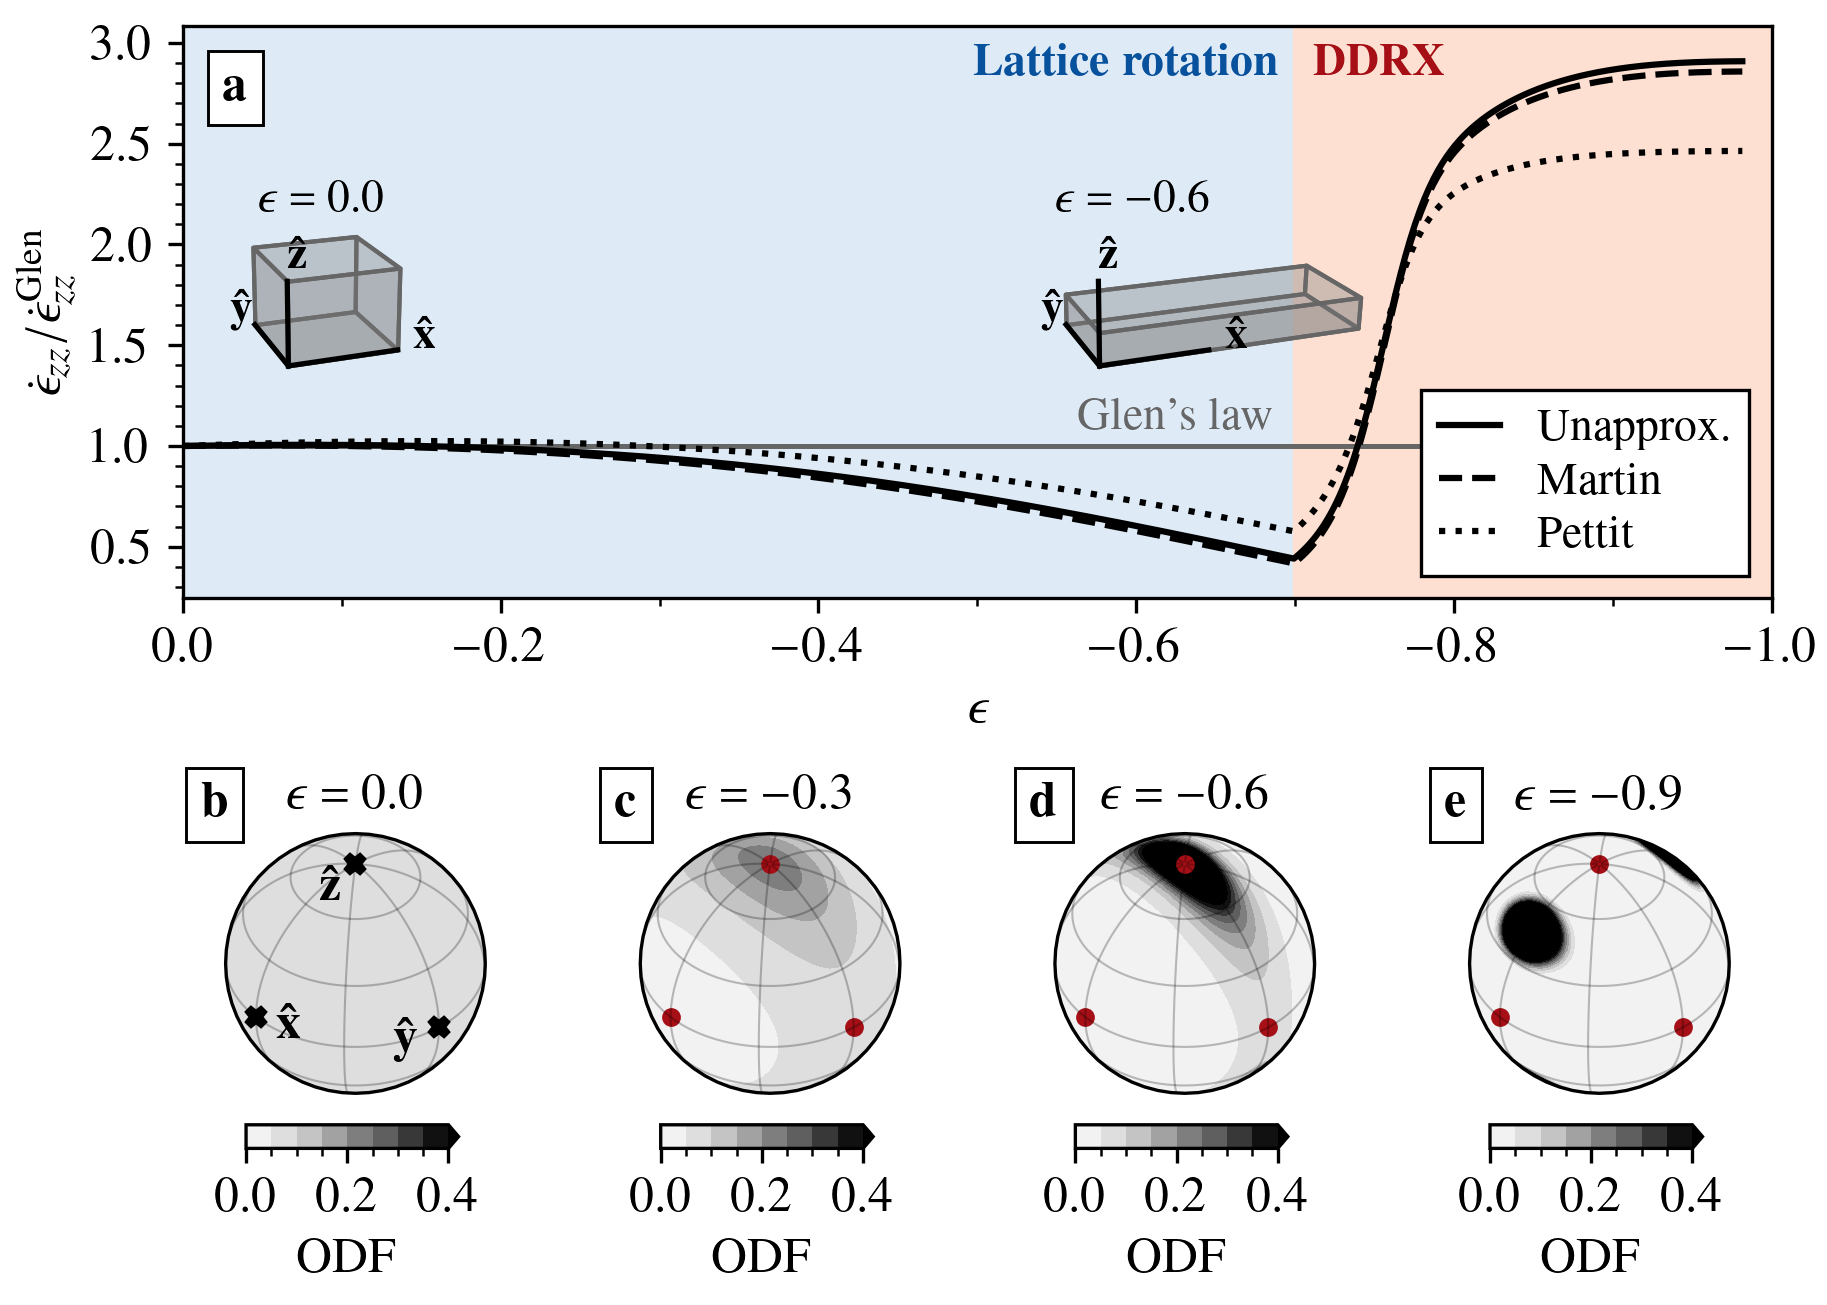
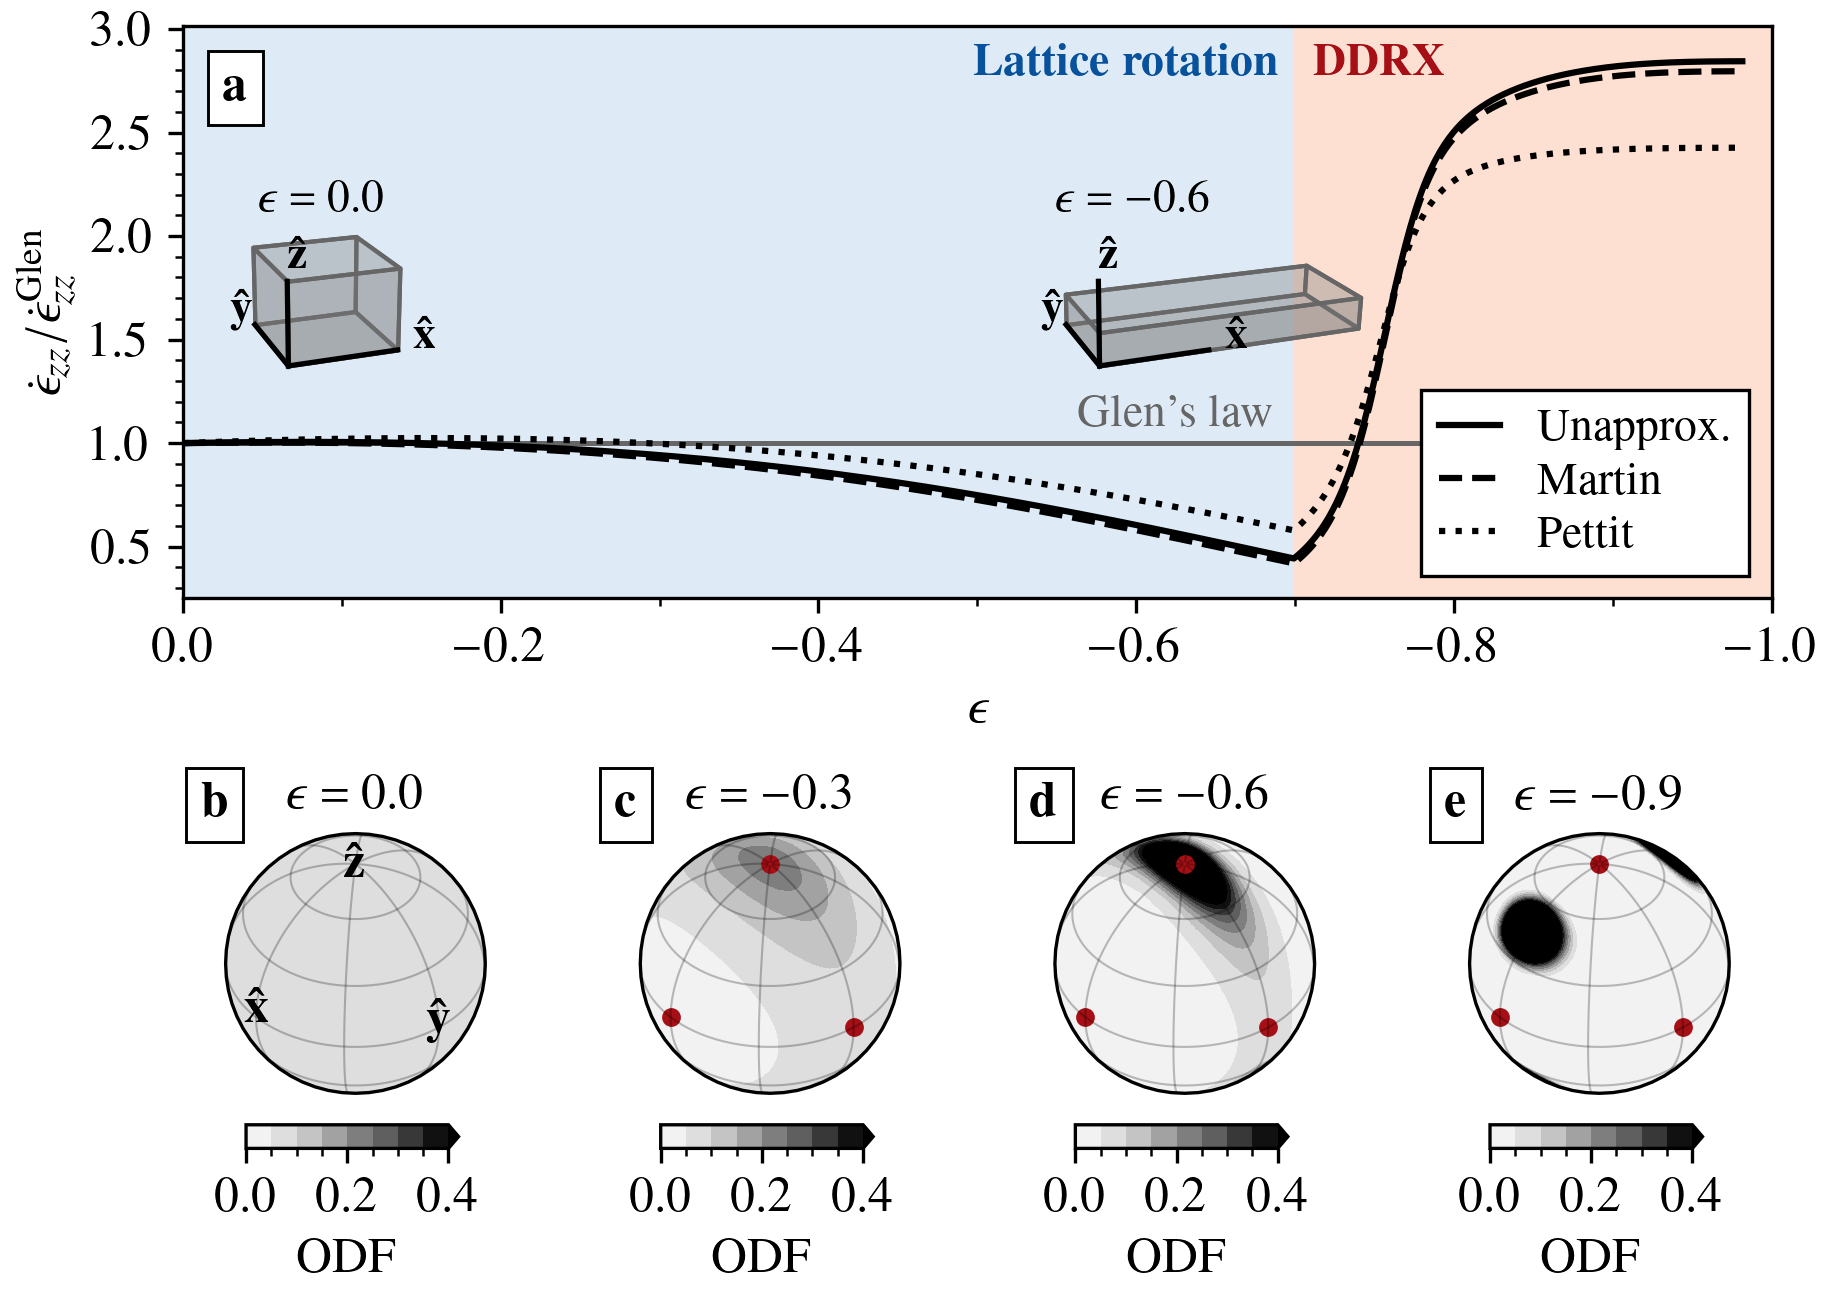
added fabric evolution animations for wiki. Updted rheology compare plots for 2022 paper.

diff --git a/demo/fabric-evolution/animation-makeall.py b/demo/fabric-evolution/animation-makeall.py
@@ -1,0 +1,134 @@
+# N. M. Rathmann <rathmann@nbi.ku.dk>, 2022
+
+import numpy as np
+import scipy.special as sp
+import sys, os, copy, code # code.interact(local=locals())
+
+sys.path.insert(0, '..')
+from header import *
+from specfabpy import specfabpy as sf
+
+import warnings
+warnings.filterwarnings("ignore")
+
+### Options
+
+latres = 40 # latitude resolution on S^2
+#latres = 20 # latitude resolution on S^2
+inclination = 50 # view angle
+rot0 = -90
+rot = 1.4*rot0 # view angle
+
+### Numerics
+
+Nt = 100 # Number of time steps
+dt = 0.02 # Time-step size (gives a vertical strain of -0.98 for experiment "uc_zz")
+L  = 8
+
+### Process parameters
+
+Gamma0 = 2e1 
+Lam = 2e-1
+
+### Integrate
+
+lm, nlm_len = sf.init(L) 
+nlm = np.zeros((3,3,Nt,nlm_len), dtype=np.complex64) # Array of expansion coefficients
+nlm[:,:,0,0] = 1/np.sqrt(4*np.pi) # Normalized ODF at t=0
+
+Mtypes = ['LROT','DDRX','CDRX']
+#Mtypes = ['DDRX',]
+
+for ii, Mtype in enumerate(Mtypes):
+
+    if Mtype == 'CDRX':
+        nlm[ii,:,0,:] = nlm[0,:,-1,:] # use LROT end state as starting point for CDRX
+
+    for jj, expr in enumerate(['uc_zz', 'cc_zx', 'ss_xz']):
+        
+        ## Velocity gradient
+        if expr == 'uc_zz': ugrad = np.diag([.5, .5, -1])
+        if expr == 'cc_zx': ugrad = np.diag([1, 0, -1])
+        if expr == 'ss_xz': ugrad = 2*np.array([[0,0,1], [0,0,0], [0,0,0]])
+
+        D = (ugrad+np.transpose(ugrad))/2 # Symmetric part (strain-rate)
+        W = (ugrad-np.transpose(ugrad))/2 # Anti-symmetric part (spin)
+        S = D.copy() # stress tensor for DDRX
+        
+        ### Euler integration
+        for tt in np.arange(1,Nt):
+            nlm_prev = nlm[ii,jj,tt-1,:]
+            if Mtype == 'LROT': M = sf.dndt_LATROT(nlm_prev, D,W) + sf.dndt_REG(nlm_prev, D)
+            if Mtype == 'DDRX': M = Gamma0 * sf.dndt_DDRX(nlm_prev, S)
+            if Mtype == 'CDRX': M = Lam*sf.dndt_CDRX(nlm_prev)
+            nlm[ii,jj,tt,:] = nlm_prev + dt*np.matmul(M, nlm_prev)
+        
+### Plot
+
+theta = np.linspace(0,   np.pi,   latres) # CO-LAT 
+phi   = np.linspace(0, 2*np.pi, 2*latres) # LON
+phi, theta = np.meshgrid(phi, theta) # gridded 
+lon, colat = phi, theta
+lat = np.pi/2-colat
+
+import matplotlib.pyplot as plt
+from matplotlib import rcParams, rc
+import matplotlib.ticker as mticker
+import matplotlib.gridspec as gridspec
+import cartopy.crs as ccrs
+
+FS = 13
+rc('font',**{'family':'serif','sans-serif':['Times'],'size':FS})
+rc('text', usetex=True)
+rcParams['text.latex.preamble'] = r'\usepackage{amsmath} \usepackage{amssymb} \usepackage{physics} \usepackage{txfonts}'
+
+def plot_vec(ax, v, lbl, color, ls='-', lw=2):
+    ax.plot([0, +v[0]],[0, +v[1]],[0,+v[2]], color=color, ls=ls, lw=lw, label=lbl)
+    ax.plot([0, -v[0]],[0, -v[1]],[0,-v[2]], color=color, ls=ls, lw=lw)
+
+prj = ccrs.Orthographic(rot, 90-inclination)
+geo = ccrs.Geodetic()
+
+for ii, Mtype in enumerate(Mtypes):
+
+    # Plot frames
+    if 0: 
+        for tt in np.arange(0,Nt):
+        #for tt in np.arange(Nt-1,Nt):
+        
+            ### Figure setup
+            scale = 2.6
+            fig = plt.figure(figsize=(3/2*1.6*scale,1.00*scale))
+            gs = fig.add_gridspec(1,3)
+            al = 0.04
+            ar = 0.02
+            gs.update(left=al, right=1-ar, top=0.85, bottom=0.20, wspace=0.3, hspace=0.4)
+
+            ax1 = fig.add_subplot(gs[0,0], projection=prj); ax1.set_global(); 
+            ax2 = fig.add_subplot(gs[0,1], projection=prj); ax2.set_global(); 
+            ax3 = fig.add_subplot(gs[0,2], projection=prj); ax3.set_global(); 
+            axlist = [ax1,ax2,ax3]
+
+            ### Plot
+            lvls = np.linspace(0,1,9)
+            tickintvl = 4
+            plot_ODF(nlm[ii,0,tt,:], lm, ax=ax1, cmap='Greys', cblabel=r'$\psi/N$ (ODF)', lvls=lvls, tickintvl=tickintvl)
+            plot_ODF(nlm[ii,1,tt,:], lm, ax=ax2, cmap='Greys', cblabel=r'$\psi/N$ (ODF)', lvls=lvls, tickintvl=tickintvl)
+            plot_ODF(nlm[ii,2,tt,:], lm, ax=ax3, cmap='Greys', cblabel=r'$\psi/N$ (ODF)', lvls=lvls, tickintvl=tickintvl)
+            ax1.set_title(r'%s Unconfined pure shear'%(r'{\Large \bf a}\,\,'), fontsize=FS, pad=10)
+            ax2.set_title(r'%s Confined pure shear'%(r'{\Large \bf b}\,\,'), fontsize=FS, pad=10)
+            ax3.set_title(r'%s Simple shear'%(r'{\Large \bf c}\,\,'), fontsize=FS, pad=10)
+                
+            ### Save
+            fout = 'frames/fabric-evolution-%s-animation-%03i.png'%(Mtype,tt)
+            print('Saving %s'%(fout))
+            plt.savefig(fout, dpi=200)
+            plt.close()
+
+    # Make GIF
+    if 1:
+        os.system('rm animation-%s.gif'%(Mtype))  
+        os.system('ffmpeg -y -f image2 -framerate 50 -stream_loop 0 -i frames/fabric-evolution-%s-animation-%s.png -vcodec libx264 -crf 20  -pix_fmt yuv420p animation-%s.avi'%(Mtype,'%03d',Mtype))
+        os.system('ffmpeg -i animation-%s.avi -vf "fps=20,scale=550:-1:flags=lanczos,split[s0][s1];[s0]palettegen[p];[s1][p]paletteuse" -loop 0 animation-%s.gif'%(Mtype,Mtype))
+        os.system('rm animation-%s.avi'%(Mtype))  
+

diff --git a/demo/rheology-compare/rheology-compare-Etheta.py b/demo/rheology-compare/rheology-compare-Etheta.py
@@ -18,6 +18,8 @@ year2sec = 31556926;
 #----------------------
 
 nglen = 3
+nglenalt = 4 # for comparison with the recent popular alternative flow exponent
+
 Aglen = 3.5e-26 # A(T=-25 deg.)
 angles = np.deg2rad(np.linspace(0,90,50))
 Nt = len(angles)
@@ -49,7 +51,7 @@ print('a2 error: ', np.sum(np.abs(a4_true-a4)))
 # Integrate
 #----------------------
 
-Eang = np.zeros((Nt,3), dtype=np.float64)
+Eang = np.zeros((Nt,5), dtype=np.float64)
 e1,e2,e3 = np.array([0,0,1]), np.array([1,0,0]), np.array([0,1,0])
 
 def f_tau(mag, ang):
@@ -74,10 +76,18 @@ for kk, ang in enumerate(angles):
     eps_P = sf.eps_of_tau__orthotropic_Pettit(tau, Aglen,nglen, e1,e2,e3, Eij)
     eps_M = sf.eps_of_tau__orthotropic_Martin(tau, Aglen,nglen, e1,e2,e3, Eij)
     
+    eps_Galt = sf.eps_of_tau__isotropic(         tau, Aglen,nglenalt)
+    eps_Ralt = sf.eps_of_tau__orthotropic(       tau, Aglen,nglenalt, e1,e2,e3, Eij)
+    eps_Malt = sf.eps_of_tau__orthotropic_Martin(tau, Aglen,nglenalt, e1,e2,e3, Eij)
+        
     eps_G_vw = np.tensordot(eps_G, vw, axes=2)
     Eang[kk,0] = np.tensordot(eps_R, vw, axes=2)/eps_G_vw
     Eang[kk,1] = np.tensordot(eps_P, vw, axes=2)/eps_G_vw
     Eang[kk,2] = np.tensordot(eps_M, vw, axes=2)/eps_G_vw
+    
+    eps_Galt_vw = np.tensordot(eps_Galt, vw, axes=2)
+    Eang[kk,3] = np.tensordot(eps_Ralt, vw, axes=2)/eps_Galt_vw
+    Eang[kk,4] = np.tensordot(eps_Malt, vw, axes=2)/eps_Galt_vw
 
 #----------------------
 # Plot
@@ -102,10 +112,13 @@ SL_1944m = np.array([ [90,0.24], [90,0.26],   [55,9], [45,6], [45,6.5]]).T
 SL_2006m = np.array([ [0,0.03], [15,0.56], [26,2.8], [45,13], [60,17], [70,3.9], [75, 1.4], [90,0.13] ]).T
 
 X = np.rad2deg(angles)
-ax_E.semilogy(X, Eang[:,0], '-',  color='k',  label=r'Unapprox.')
-ax_E.semilogy(X, Eang[:,2], '--', color='k',  label=r'Martin')
-ax_E.semilogy(X, Eang[:,1], ':',  color='k',  label=r'Pettit')
-ms = 6.25
+ax_E.semilogy(X, Eang[:,0], '-',  color='k',    label=r'Unapprox., $n=3$')
+ax_E.semilogy(X, Eang[:,3], '-',  color='0.65', label=r'Unapprox., $n=4$')
+ax_E.semilogy(X, Eang[:,2], '--', color='k',    label=r'Martin, $n=3$')
+ax_E.semilogy(X, Eang[:,4], '--', color='0.65', label=r'Martin, $n=4$')
+ax_E.semilogy(X, Eang[:,1], ':',  color='k',    label=r'Pettit, any $n$')
+
+ms = 6.6
 fc='none'
 #colors = ['#ff7f00', '#1f78b4', '#33a02c']
 colors = ['k', 'k', 'k']
@@ -120,8 +133,8 @@ ax_E.set_xlim([0,90])
 ax_E.set_ylabel(r'$\dot{\epsilon}_{vv}/\dot{\epsilon}_{vv}^{\mathrm{Glen}}$')
 ax_E.set_ylim([1e-2,2e1])
 #ax_E.grid()
-legkwargs = {'frameon':True, 'fancybox':False, 'edgecolor':'k', 'framealpha':0.75, 'ncol':2, 'columnspacing':0.6, 'handlelength':1.3, 'handletextpad':0.5, 'labelspacing':0.25, 'fontsize':FSSMALL-0.5}
-leg = ax_E.legend(**legkwargs)
+legkwargs = {'frameon':True, 'fancybox':False, 'edgecolor':'k', 'framealpha':0.75, 'ncol':1, 'columnspacing':0.6, 'handlelength':1.3, 'handletextpad':0.5, 'labelspacing':0.25, 'fontsize':FSSMALL-1.0}
+leg = ax_E.legend(**legkwargs, bbox_to_anchor=(0.61,0.54))
 leg.get_frame().set_linewidth(0.8);
 
 ### Save figure

diff --git a/demo/rheology-compare/rheology-compare.py b/demo/rheology-compare/rheology-compare.py
@@ -26,7 +26,7 @@ T_EXP_STR = {T_EXP_CC:'cc', T_EXP_SS:'ss'}
 ### Select experiment
 
 T_EXP = T_EXP_CC
-T_EXP = T_EXP_SS
+#T_EXP = T_EXP_SS
 
 DEBUG = 0
 
@@ -298,12 +298,15 @@ for ii,nn in enumerate(ODF_tsteps):
     if ii==0:
         mrk='X'
         ms=4.5
-        ax.plot([0],[90],mrk, ms=ms, c=colax, transform=geo)
-        ax.plot([rot0-90],[0],mrk, ms=ms,  c=colax, transform=geo)
-        ax.plot([rot0],[0],mrk, ms=ms,  c=colax, transform=geo)
-        ax.text(rot0-80, 65, r'$\vu{z}$', c=colax, horizontalalignment='left', transform=geo)
-        ax.text(rot0-90+12, -5, r'$\vu{x}$', c=colax, horizontalalignment='left', transform=geo)
-        ax.text(rot0-23, -5, r'$\vu{y}$', c=colax, horizontalalignment='left', transform=geo)
+#        ax.plot([0],[90],mrk, ms=ms, c=colax, transform=geo)
+#        ax.plot([rot0-90],[0],mrk, ms=ms,  c=colax, transform=geo)
+#        ax.plot([rot0],[0],mrk, ms=ms,  c=colax, transform=geo)
+#        ax.text(rot0-80, 65, r'$\vu{z}$', c=colax, horizontalalignment='left', transform=geo)
+#        ax.text(rot0-90+12, -5, r'$\vu{x}$', c=colax, horizontalalignment='left', transform=geo)
+#        ax.text(rot0-23, -5, r'$\vu{y}$', c=colax, horizontalalignment='left', transform=geo)
+        ax.text(rot0-40, 90-8, r'$\vu{z}$', c=colax, horizontalalignment='center', transform=geo)
+        ax.text(rot0-90, -3, r'$\vu{x}$', c=colax, horizontalalignment='center', transform=geo)
+        ax.text(rot0-0, -3, r'$\vu{y}$', c=colax, horizontalalignment='center', transform=geo)
     
     if ii>0:    
         color, ms = color_darkred, 7
